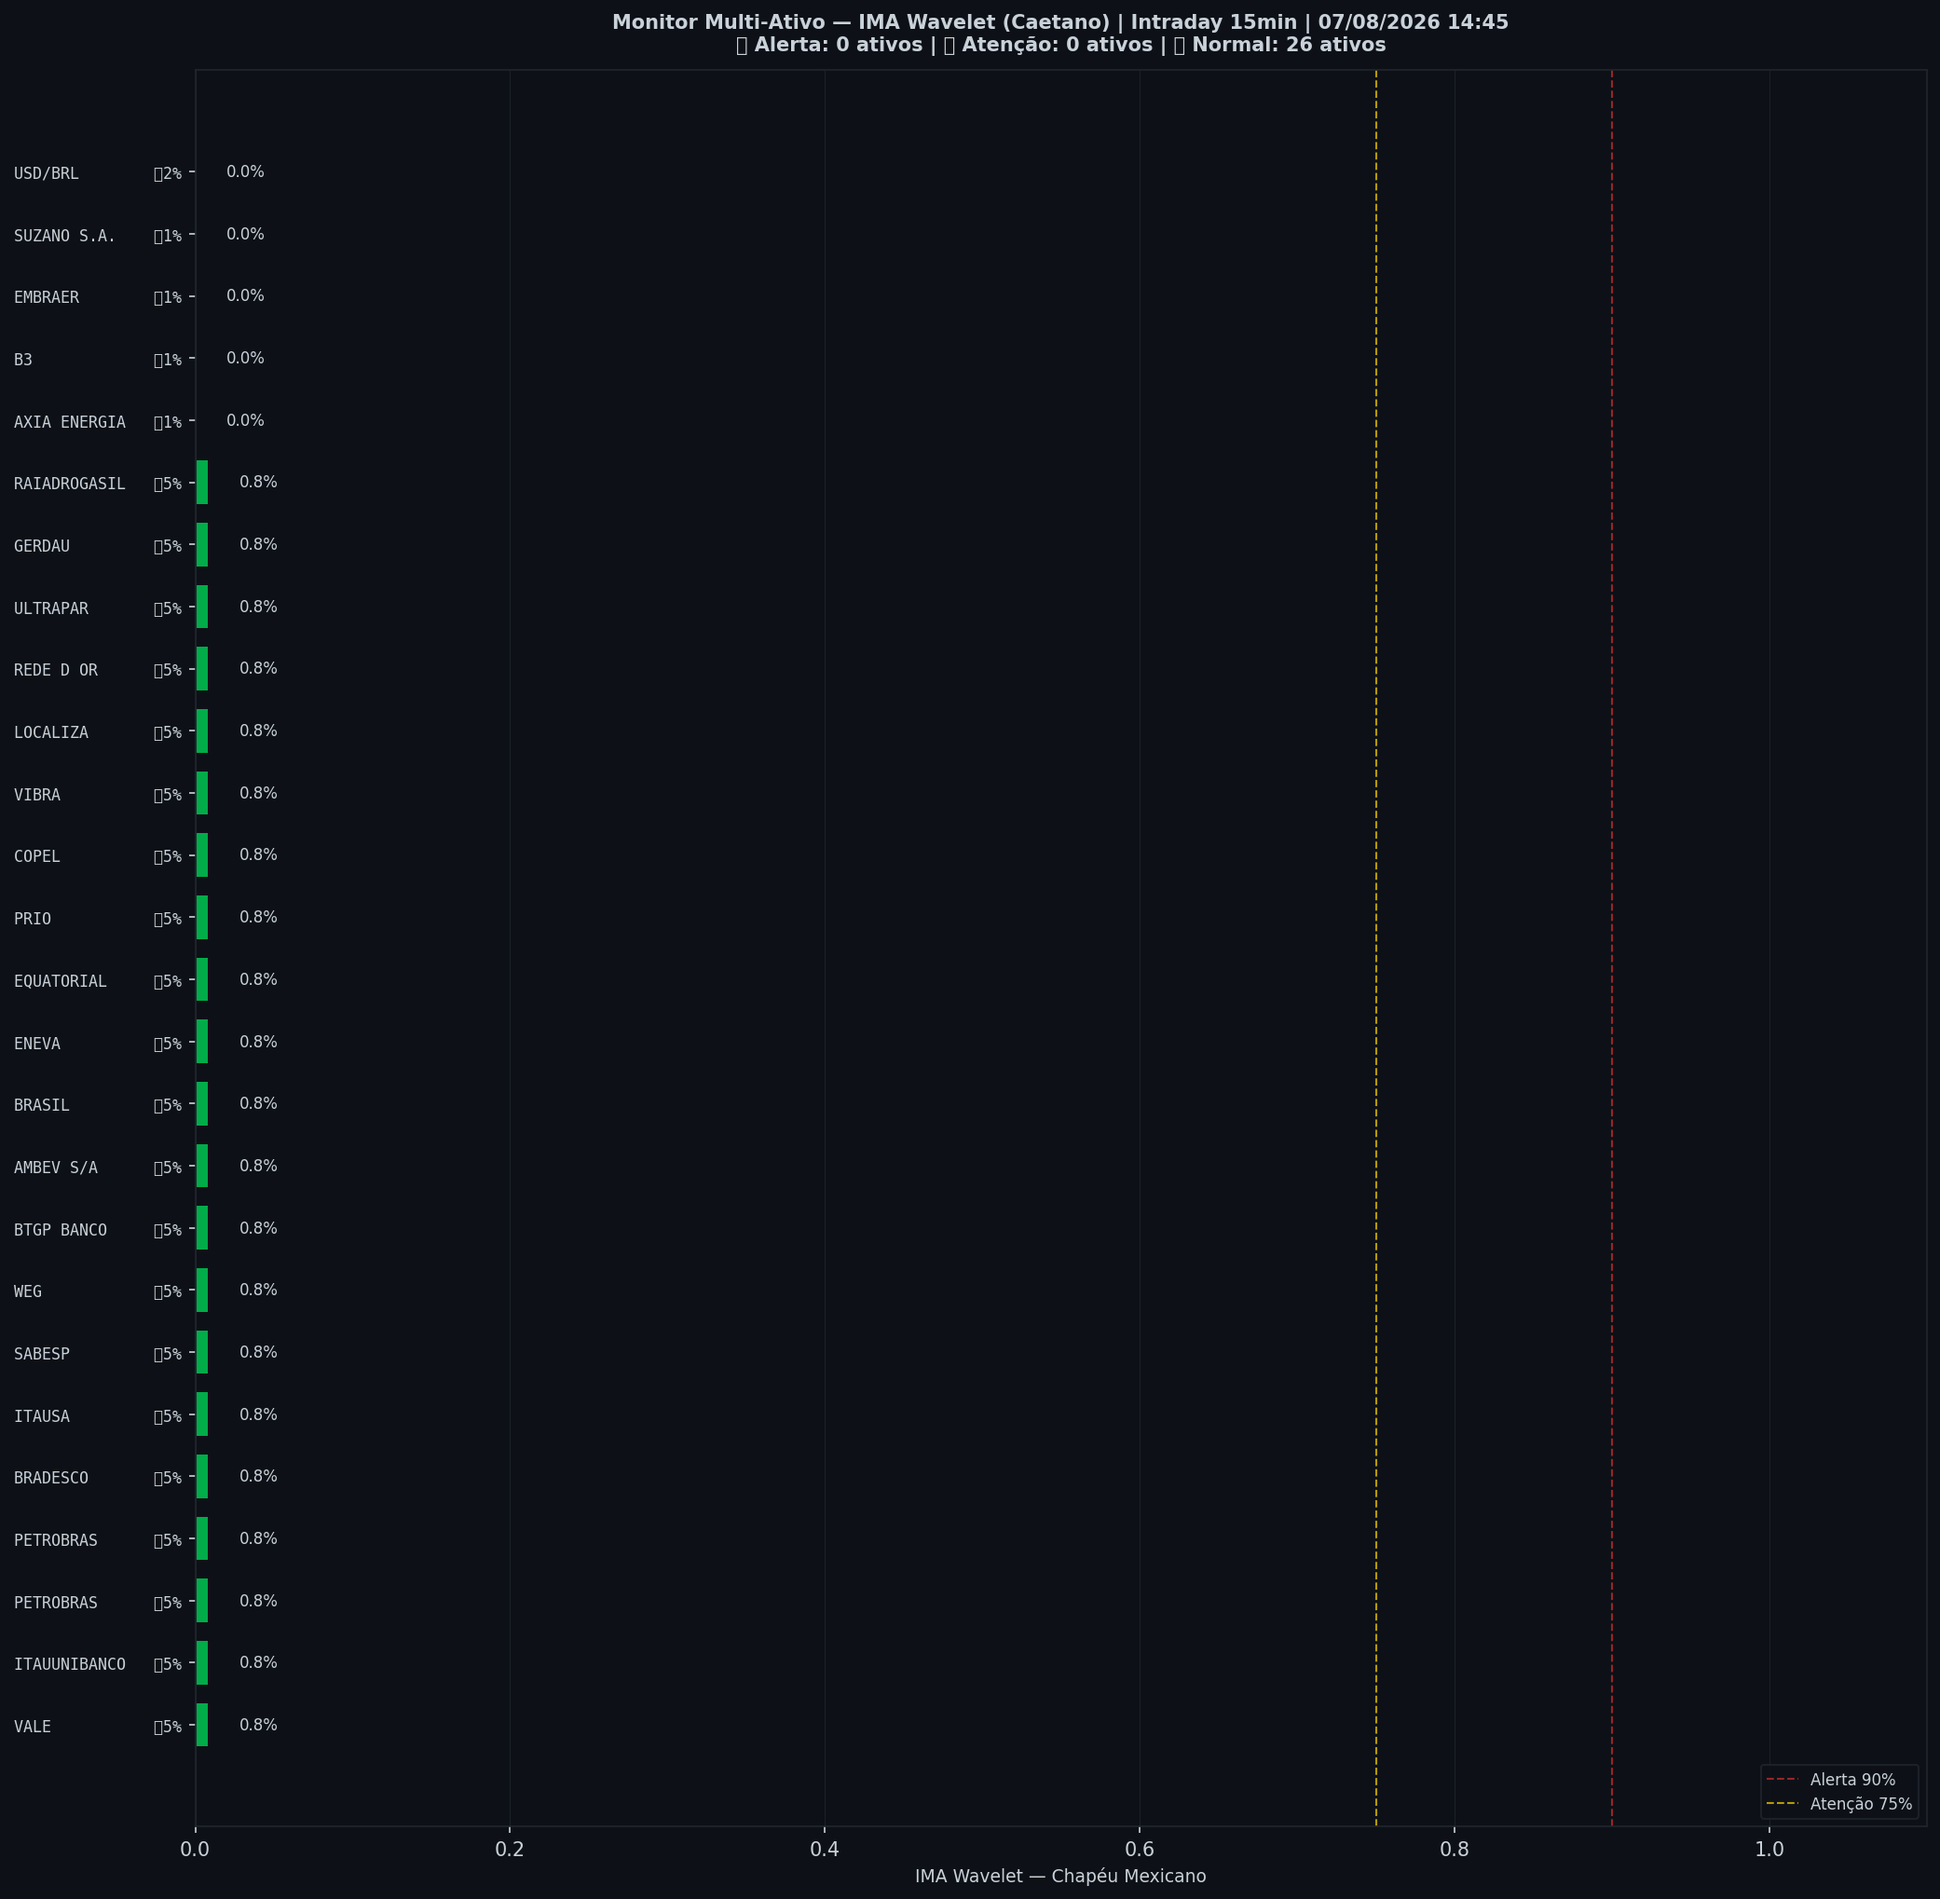
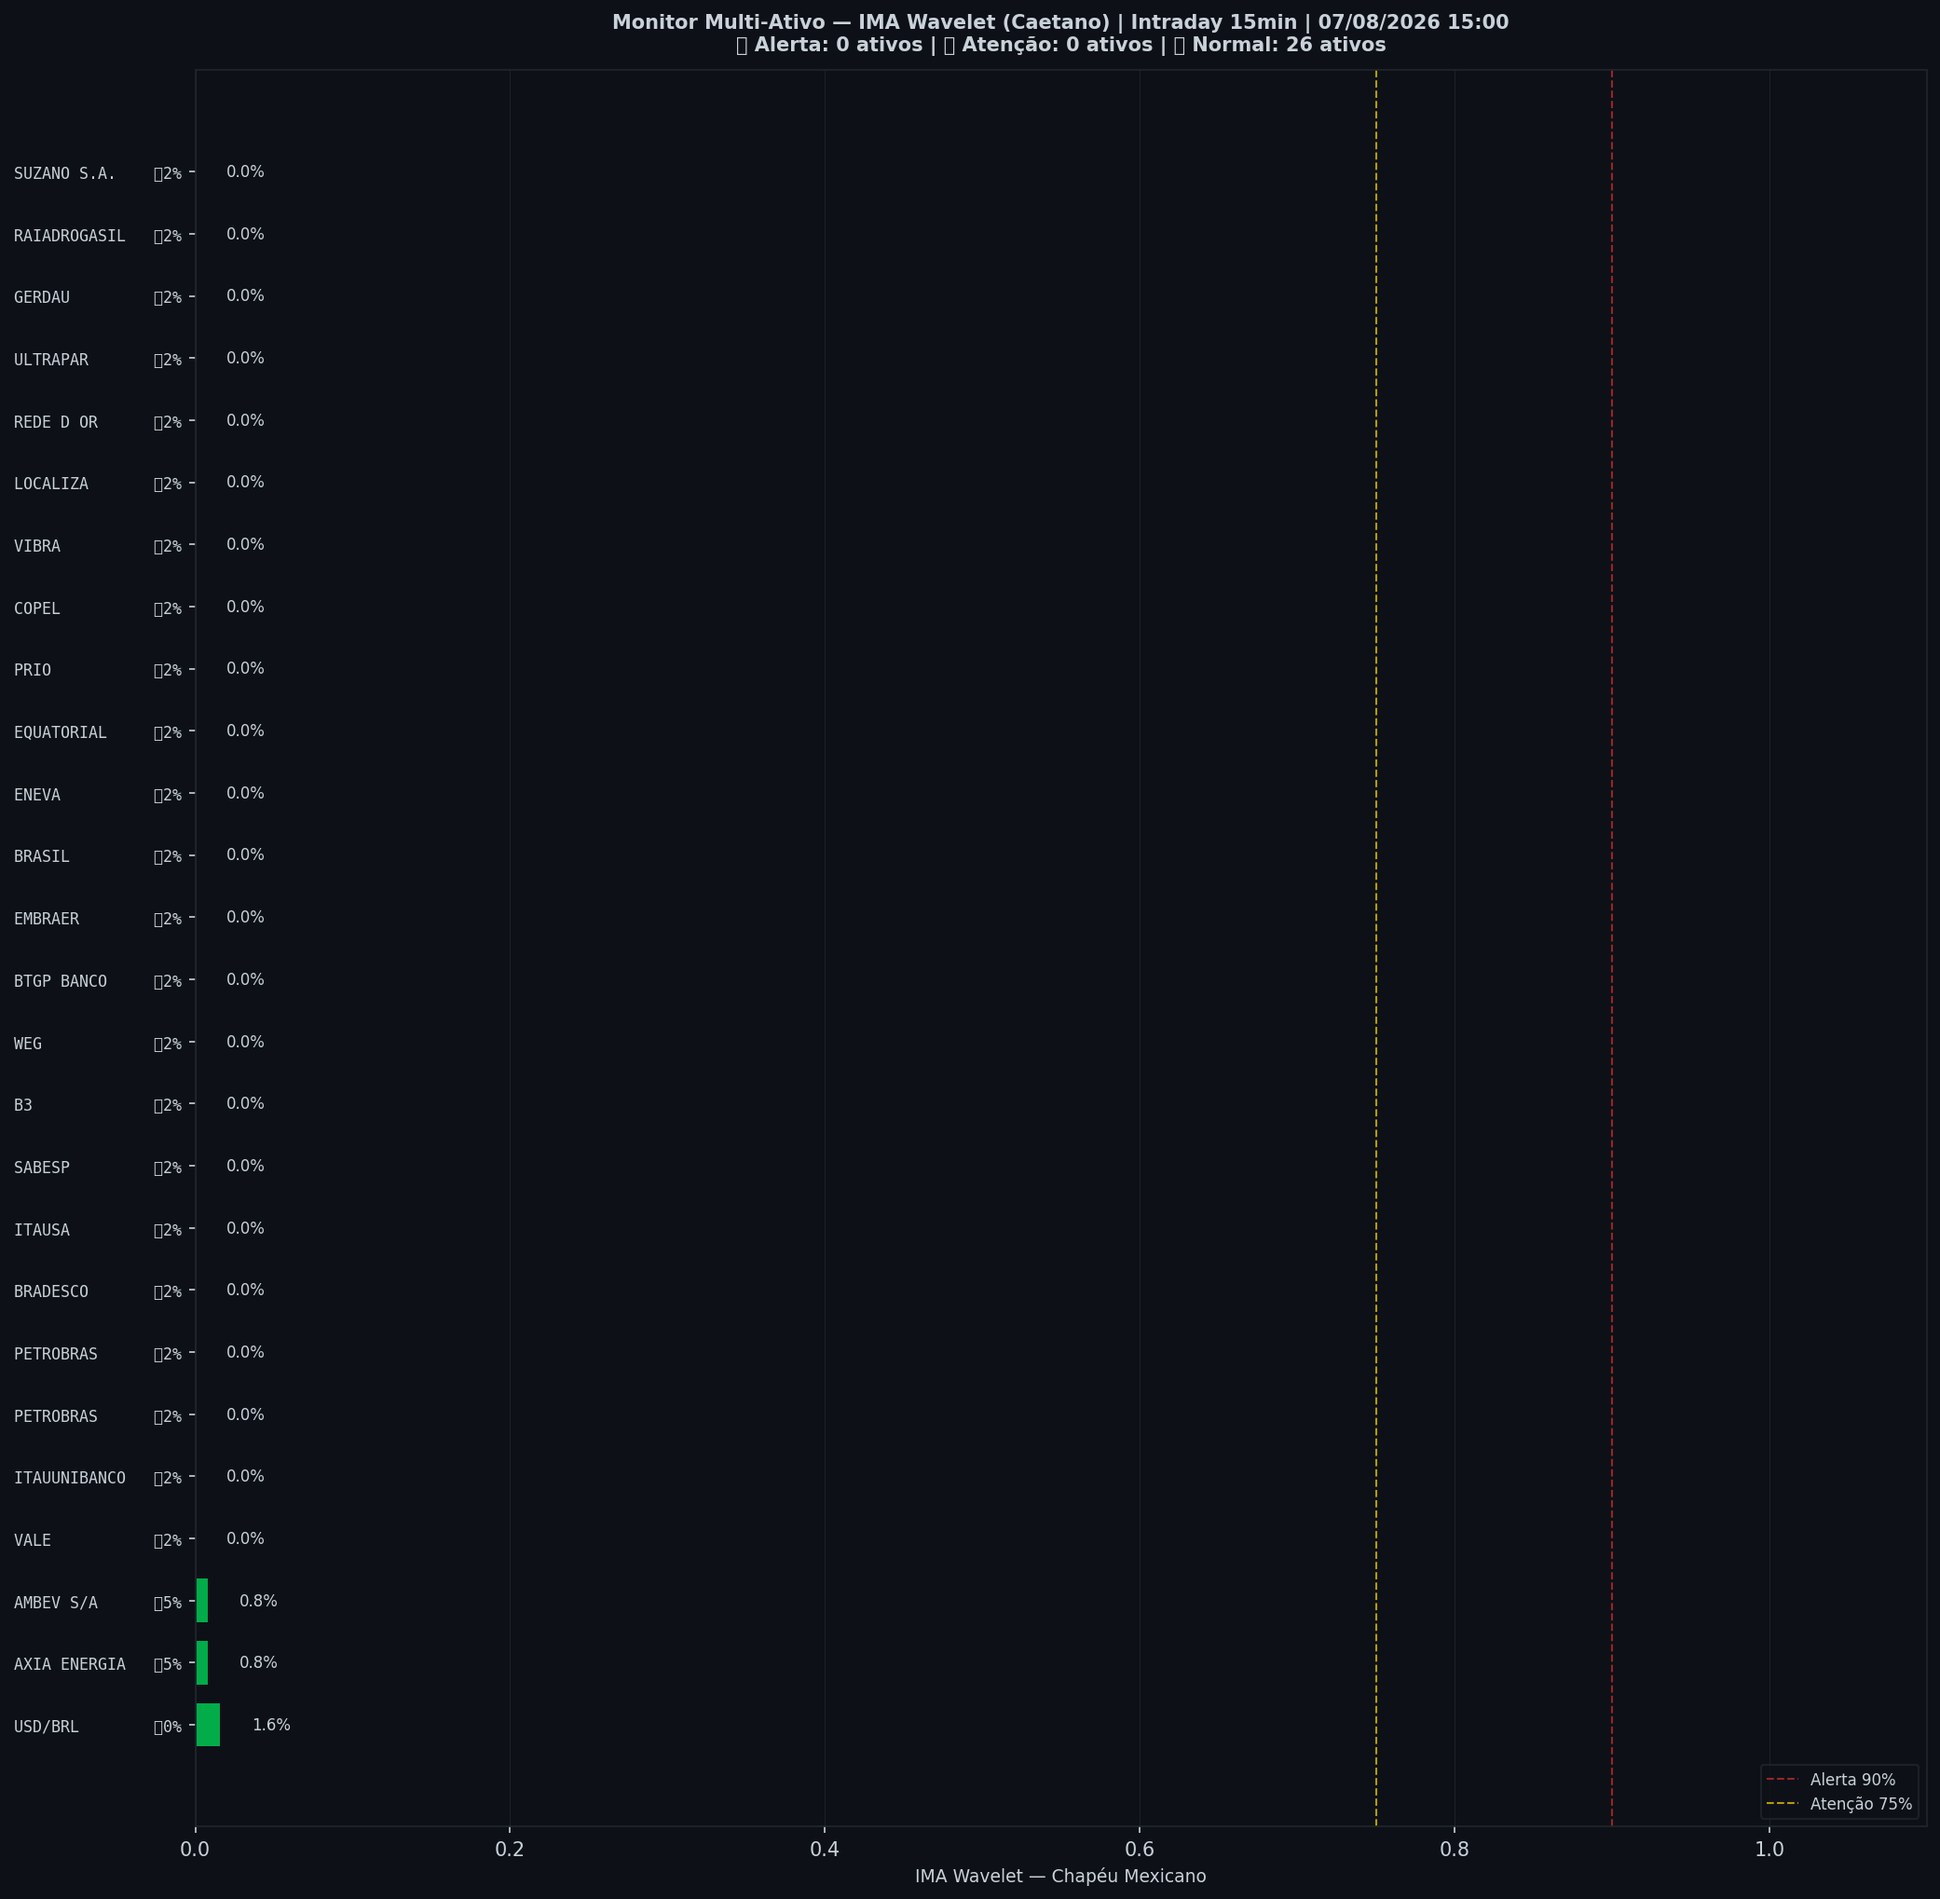
🤖 Auto: Sinal 07/08/2026 15:01

diff --git a/content/intraday/2026-08-07.md b/content/intraday/2026-08-07.md
@@ -1,5 +1,5 @@
 ---
-title: "🟢 Intraday 07/08/2026 14:00 BRT — VERDE"
+title: "🟢 Intraday 07/08/2026 14:15 BRT — VERDE"
 date: 2026-08-07
 tags: [intraday]
 ---
@@ -12,9 +12,9 @@ tags: [intraday]
 | Indicador | Valor |
 |---|---|
 | 🔴 ζ Crash — severidade da queda em curso | **0%** |
-| 🔵 ζ Entrada — estrutura de fundo | 99% |
+| 🔵 ζ Entrada — estrutura de fundo | 100% |
 | 🫧 LPPL DS-Confidence | 0% |
-| 📊 Ibovespa | 172.678 pts |
+| 📊 Ibovespa | 172.672 pts |
 
 ![Gráfico do sinal](../graficos/sinal_intraday.png)
 
@@ -22,6 +22,7 @@ tags: [intraday]
 
 | Data | Zona | Risco | IMA Crash | Entrada | LPPL |
 |---|---|---|---|---|---|
+| 2026-08-07 14:15 | 🟢 VERDE | **0%** | 0% | 100% | 0% |
 | 2026-08-07 14:00 | 🟢 VERDE | **0%** | 0% | 99% | 0% |
 | 2026-08-07 13:45 | 🟢 VERDE | **0%** | 0% | 98% | 0% |
 | 2026-08-07 13:30 | 🟢 VERDE | **0%** | 0% | 98% | 0% |
@@ -51,7 +52,6 @@ tags: [intraday]
 | 2026-08-06 14:30 | 🟢 VERDE | **0%** | 0% | 98% | 0% |
 | 2026-08-06 14:15 | 🟢 VERDE | **0%** | 0% | 98% | 0% |
 | 2026-08-06 14:00 | 🟢 VERDE | **0%** | 0% | 99% | 0% |
-| 2026-08-06 13:45 | 🟢 VERDE | **0%** | 0% | 100% | 0% |
 
 ## Monitor Multi-Ativo
 
@@ -59,36 +59,36 @@ tags: [intraday]
 
 | Zona | Ativo | Setor | IMA Crash | IMA Entrada |
 |---|---|---|---|---|
-| 🟢 | **VALE** | Mineração | 0.8% | 4.7% |
-| 🟢 | **ITAUUNIBANCO** | Financeiro | 0.8% | 4.7% |
-| 🟢 | **PETROBRAS** | Petróleo | 0.8% | 4.7% |
-| 🟢 | **PETROBRAS** | Petróleo | 0.8% | 4.7% |
-| 🟢 | **BRADESCO** | Financeiro | 0.8% | 4.7% |
-| 🟢 | **ITAUSA** | Financeiro | 0.8% | 4.7% |
-| 🟢 | **SABESP** | Saneamento | 0.8% | 4.7% |
-| 🟢 | **WEG** | Industrial | 0.8% | 4.7% |
-| 🟢 | **BTGP BANCO** | Financeiro | 0.8% | 4.7% |
+| 🟢 | **USD/BRL** | Câmbio | 1.6% | 0.0% |
+| 🟢 | **AXIA ENERGIA** | Energia | 0.8% | 4.7% |
 | 🟢 | **AMBEV S/A** | Consumo | 0.8% | 4.7% |
-| 🟢 | **BRASIL** | Financeiro | 0.8% | 4.7% |
-| 🟢 | **ENEVA** | Energia | 0.8% | 4.7% |
-| 🟢 | **EQUATORIAL** | Energia | 0.8% | 4.7% |
-| 🟢 | **PRIO** | Petróleo | 0.8% | 4.7% |
-| 🟢 | **COPEL** | Energia | 0.8% | 4.7% |
-| 🟢 | **VIBRA** | Energia | 0.8% | 4.7% |
-| 🟢 | **LOCALIZA** | Aluguel | 0.8% | 4.7% |
-| 🟢 | **REDE D OR** | Saúde | 0.8% | 4.7% |
-| 🟢 | **ULTRAPAR** | Outros | 0.8% | 4.7% |
-| 🟢 | **GERDAU** | Siderurgia | 0.8% | 4.7% |
-| 🟢 | **RAIADROGASIL** | Outros | 0.8% | 4.7% |
-| 🟢 | **AXIA ENERGIA** | Energia | 0.0% | 0.8% |
-| 🟢 | **B3** | Financeiro | 0.0% | 0.8% |
-| 🟢 | **EMBRAER** | Outros | 0.0% | 0.8% |
-| 🟢 | **SUZANO S.A.** | Papel/Celulose | 0.0% | 0.8% |
-| 🟢 | **USD/BRL** | Câmbio | 0.0% | 2.3% |
+| 🟢 | **VALE** | Mineração | 0.0% | 2.3% |
+| 🟢 | **ITAUUNIBANCO** | Financeiro | 0.0% | 2.3% |
+| 🟢 | **PETROBRAS** | Petróleo | 0.0% | 2.3% |
+| 🟢 | **PETROBRAS** | Petróleo | 0.0% | 2.3% |
+| 🟢 | **BRADESCO** | Financeiro | 0.0% | 2.3% |
+| 🟢 | **ITAUSA** | Financeiro | 0.0% | 2.3% |
+| 🟢 | **SABESP** | Saneamento | 0.0% | 2.3% |
+| 🟢 | **B3** | Financeiro | 0.0% | 2.3% |
+| 🟢 | **WEG** | Industrial | 0.0% | 2.3% |
+| 🟢 | **BTGP BANCO** | Financeiro | 0.0% | 2.3% |
+| 🟢 | **EMBRAER** | Outros | 0.0% | 2.3% |
+| 🟢 | **BRASIL** | Financeiro | 0.0% | 2.3% |
+| 🟢 | **ENEVA** | Energia | 0.0% | 2.3% |
+| 🟢 | **EQUATORIAL** | Energia | 0.0% | 2.3% |
+| 🟢 | **PRIO** | Petróleo | 0.0% | 2.3% |
+| 🟢 | **COPEL** | Energia | 0.0% | 2.3% |
+| 🟢 | **VIBRA** | Energia | 0.0% | 2.3% |
+| 🟢 | **LOCALIZA** | Aluguel | 0.0% | 2.3% |
+| 🟢 | **REDE D OR** | Saúde | 0.0% | 2.3% |
+| 🟢 | **ULTRAPAR** | Outros | 0.0% | 2.3% |
+| 🟢 | **GERDAU** | Siderurgia | 0.0% | 2.3% |
+| 🟢 | **RAIADROGASIL** | Outros | 0.0% | 2.3% |
+| 🟢 | **SUZANO S.A.** | Papel/Celulose | 0.0% | 2.3% |
 
 ![Monitor multi-ativo](../graficos/multi_intraday.png)
 
-*Página atualizada em 07/08/2026 14:45 BRT (leitura da barra de 2026-08-07 14:00 BRT).*
+*Página atualizada em 07/08/2026 15:01 BRT (leitura da barra de 2026-08-07 14:15 BRT).*
 
 > [!info]- Como interpretar (clique para expandir)
 > - **ζ Crash**: fração dos coeficientes wavelet acima do corte (Caetano & Yoneyama 2009). Escala absoluta: ζ=0,90 = 90% dos coeficientes anômalos — historicamente, quedas com ζ≥0,90 foram mais fundas e mais longas. **Mede a severidade do movimento em curso, não prevê o início da queda.**

diff --git a/content/index.md b/content/index.md
@@ -8,7 +8,7 @@ tags: [home]
 
 Monitoramento diário e intraday do Ibovespa — **IMA Wavelet** (Prof. Marco Antonio Leonel Caetano, ITA/INSPER) + **LPPL DS-Confidence** (Prof. Didier Sornette, ETH-Zurich).
 
-*Última atualização: 07/08/2026 14:45 BRT · ^BVSP · Intraday 15min · v4*
+*Última atualização: 07/08/2026 15:01 BRT · ^BVSP · Intraday 15min · v4*
 
 > [!success] 🟢 **VERDE** — Risco 0% · ＝ +0 p.p. vs leitura anterior
 > `░░░░░░░░░░░░░░░░░░░░`
@@ -18,9 +18,9 @@ Monitoramento diário e intraday do Ibovespa — **IMA Wavelet** (Prof. Marco An
 | Indicador | Valor |
 |---|---|
 | 🔴 ζ Crash — severidade da queda em curso | **0%** |
-| 🔵 ζ Entrada — estrutura de fundo | 99% |
+| 🔵 ζ Entrada — estrutura de fundo | 100% |
 | 🫧 LPPL DS-Confidence | 0% |
-| 📊 Ibovespa | 172.678 pts |
+| 📊 Ibovespa | 172.672 pts |
 
 **Multi-ativo:** 0% em tensão (0🔴 0🟡 de 26 ativos)
 

diff --git a/content/historico.md b/content/historico.md
@@ -7,6 +7,7 @@ tags: [historico]
 
 | Data | Modo | Zona | Risco | IMA | LPPL |
 |---|---|---|---|---|---|
+| 2026-08-07 14:15 | intraday | 🟢 VERDE | 0% | 0% | 0% |
 | 2026-08-07 14:00 | intraday | 🟢 VERDE | 0% | 0% | 0% |
 | 2026-08-07 13:45 | intraday | 🟢 VERDE | 0% | 0% | 0% |
 | 2026-08-07 13:30 | intraday | 🟢 VERDE | 0% | 0% | 0% |
